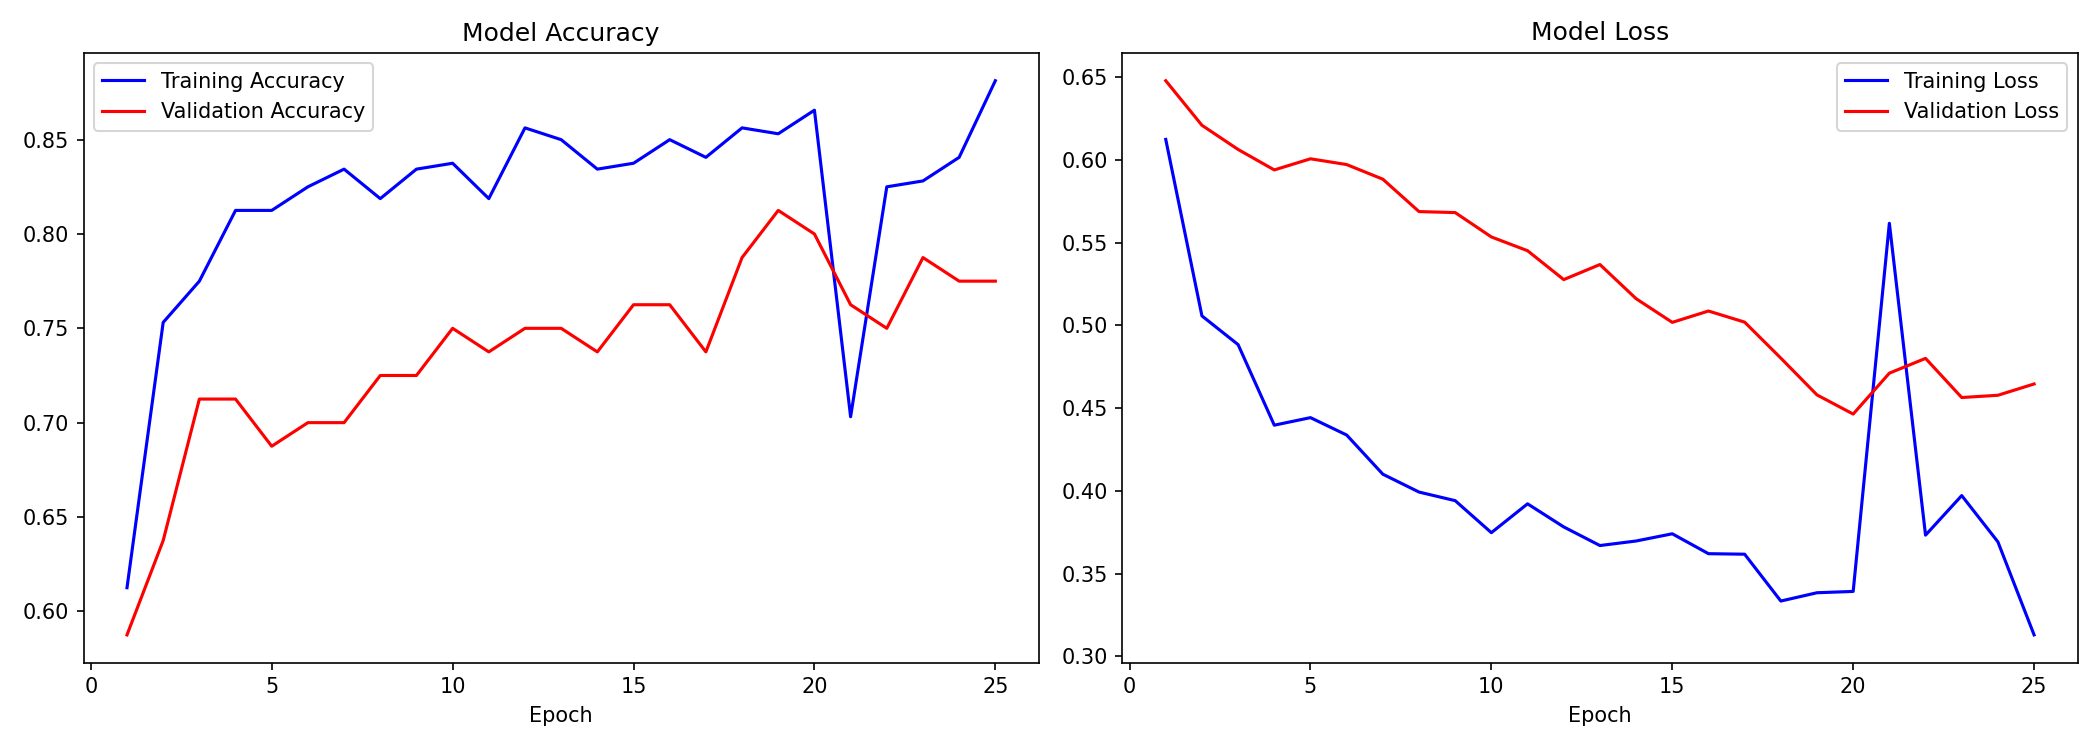
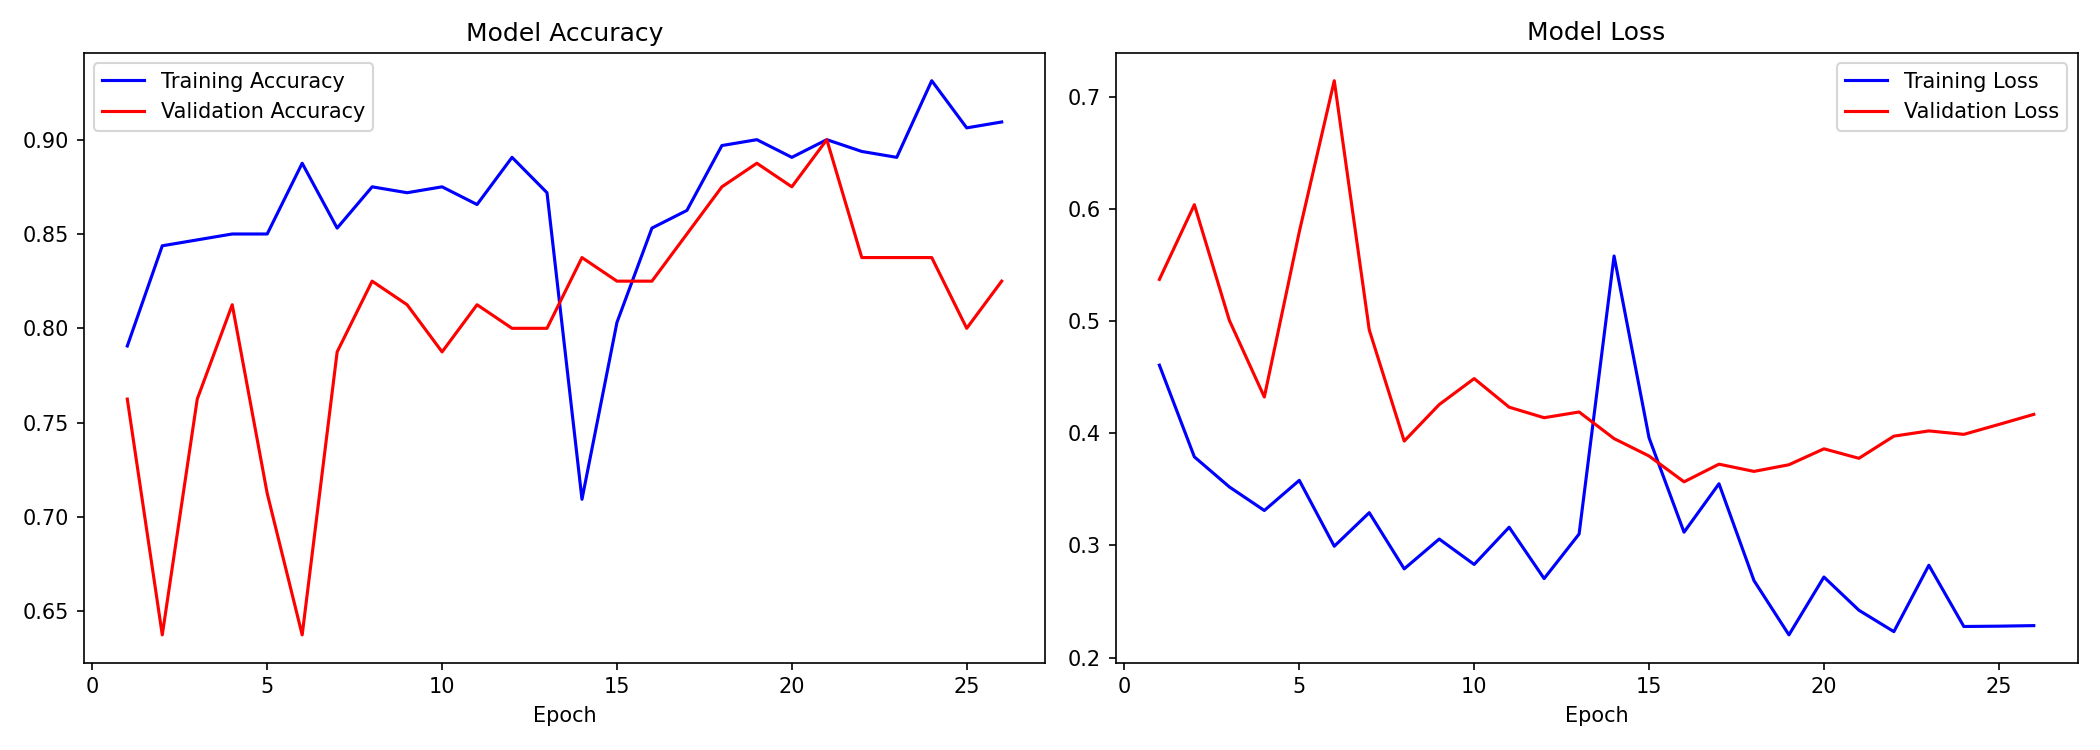
updated training model

diff --git a/model/train_model.py b/model/train_model.py
@@ -23,6 +23,8 @@ os.makedirs('model', exist_ok=True)
 print('Loading dataset...')
 train_gen, val_gen, test_gen = get_data_generators()
 
+print("Class indices:", train_gen.class_indices)
+
 # ── Step 2: Compute class weights to fix class imbalance ───────
 labels = train_gen.classes
 class_weights_arr = compute_class_weight(
@@ -42,12 +44,12 @@ model, base_model = build_model()
 callbacks = [
     ModelCheckpoint(
         filepath       = 'model/brain_tumor_model.h5',
-        monitor        = 'val_loss',
+        monitor        = 'val_accuracy',
         save_best_only = True,
         verbose        = 1
     ),
     EarlyStopping(
-        monitor              = 'val_loss',
+        monitor              = 'val_accuracy',
         patience             = 5,
         restore_best_weights = True,
         verbose              = 1
@@ -77,7 +79,7 @@ model = unfreeze_top_layers(model, base_model, num_layers=20)
 
 history2 = model.fit(
     train_gen,
-    epochs          = 10,
+    epochs          = 15,
     validation_data = val_gen,
     class_weight    = class_weight_dict,
     callbacks       = callbacks,
@@ -86,9 +88,11 @@ history2 = model.fit(
 
 # ── Step 7: Evaluate on test set ──────────────────────────────
 print('\nEvaluating on test set...')
-test_loss, test_accuracy = model.evaluate(test_gen)
-print(f'Test Accuracy: {test_accuracy * 100:.2f}%')
-print(f'Test Loss    : {test_loss:.4f}')
+loss, accuracy, auc = model.evaluate(test_gen)
+
+print(f'Test Accuracy: {accuracy * 100:.2f}%')
+print(f'Test Loss    : {loss:.4f}')
+print(f'Test AUC     : {auc:.4f}')
 
 # ── Step 8: Plot training curves ──────────────────────────────
 def plot_history(h1, h2):

diff --git a/backend/app.py b/backend/app.py
@@ -155,17 +155,20 @@ def predict():
         # Step 5: Preprocess & predict
         img_array = preprocess_single_image(dec_temp)
         raw_pred  = model.predict(img_array, verbose=0)[0][0]
+        print("RAW PREDICTION:", raw_pred)
 
         # Interpret sigmoid output:
         # >= 0.5 → Healthy (class 1), < 0.5 → Diseased (class 0)
-        if raw_pred >= 0.5:
-            label      = 'Healthy'
-            confidence = float(raw_pred) * 100
-            message    = 'No tumor detected. Routine follow-up recommended.'
+        THRESHOLD = 0.4   # 🔥 adjust based on bias
+
+        if raw_pred >= THRESHOLD:
+            label = 'Healthy'
+            confidence = float(raw_pred) * 100   # 🔥 FIX
+            message = 'No tumor detected. Routine check recommended.'
         else:
-            label      = 'Diseased'
-            confidence = (1 - float(raw_pred)) * 100
-            message    = 'Potential tumor detected. Please consult a specialist.'
+            label = 'Diseased'
+            confidence = (1 - float(raw_pred)) * 100   # 🔥 FIX
+            message = 'Possible tumor detected. Consult a specialist.'
 
         # Step 6: Generate Grad-CAM heatmap
         heatmap          = get_gradcam_heatmap(model, img_array, LAST_CONV_LAYER)

diff --git a/model/cnn_model.py b/model/cnn_model.py
@@ -60,10 +60,15 @@ def build_model():
     ])
 
     # Step 4: Compile
+    import tensorflow as tf
+
     model.compile(
-        optimizer = Adam(learning_rate=0.0001),
-        loss      = 'binary_crossentropy',
-        metrics   = ['accuracy']
+        optimizer='adam',
+        loss='binary_crossentropy',
+        metrics=[
+            'accuracy',
+            tf.keras.metrics.AUC(name='auc')   # 🔥 ADD THIS
+        ]
     )
 
     return model, base_model
@@ -80,9 +85,12 @@ def unfreeze_top_layers(model, base_model, num_layers=20):
         layer.trainable = False
 
     model.compile(
-        optimizer = Adam(learning_rate=1e-5),
-        loss      = 'binary_crossentropy',
-        metrics   = ['accuracy']
+        optimizer=tf.keras.optimizers.Adam(learning_rate=1e-5),
+        loss='binary_crossentropy',
+        metrics=[
+            'accuracy',
+            tf.keras.metrics.AUC(name='auc')
+        ]
     )
 
     print(f'Unfroze last {num_layers} layers of ResNet50 for fine-tuning')

diff --git a/evaluate_metrics.py b/evaluate_metrics.py
@@ -43,3 +43,13 @@ print(f'AUC-ROC     : {auc:.4f}')
 print(f'\nDetailed Report:')
 print(classification_report(y_true, y_pred,
       target_names=['Diseased (0)', 'Healthy (1)']))
+
+from sklearn.metrics import roc_curve
+
+fpr, tpr, thresholds = roc_curve(y_true, y_pred)
+
+# optimal threshold
+optimal_idx = (tpr - fpr).argmax()
+optimal_threshold = thresholds[optimal_idx]
+
+print("Best Threshold:", optimal_threshold)
